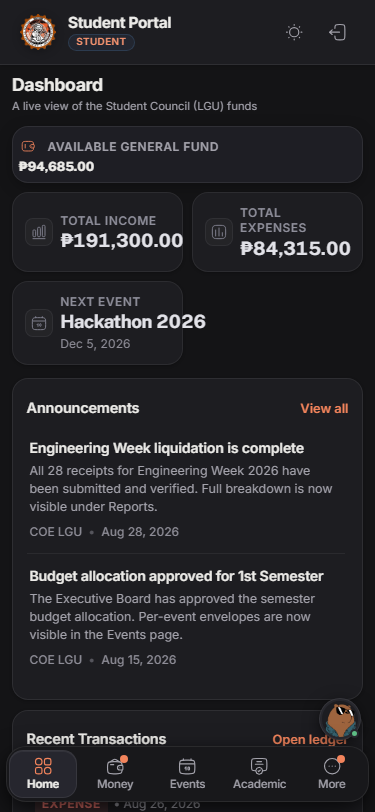
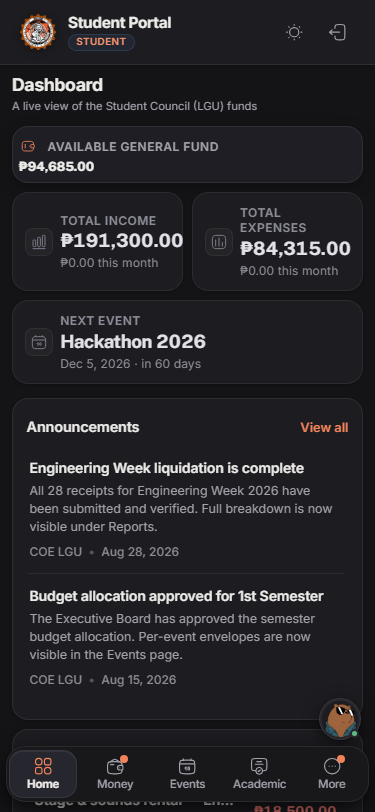
feat(ui): next event countdown on a full row, month-to-date on money cards
Next Event spans both columns on phones and shows how far away it is.
Total Income and Total Expenses carry this month's figure as their
second line, from the monthly report the Reports tab already uses.

Verified: verify-nav-consolidation 65/65, verify-student-experience
37/37, check_txs exit 0.

diff --git a/client/js/dashboard.js b/client/js/dashboard.js
@@ -196,6 +196,7 @@ const Dashboard = (() => {
       document.getElementById('stat-income').textContent    = UI.currency(summary.totalIncome);
       document.getElementById('stat-expense').textContent   = UI.currency(summary.totalExpense);
       document.getElementById('stat-balance').textContent   = UI.currency(summary.remainingBalance);
+      loadMonthToDate();
 
       // Populate popover breakdowns with 1-tap action links
       document.getElementById('pop-income').innerHTML = `
@@ -230,6 +231,25 @@ const Dashboard = (() => {
     }
   }
 
+  // Second line of the income and expense cards: this month's movement,
+  // from the same monthly series the Reports tab charts.
+  async function loadMonthToDate() {
+    const incomeEl = document.getElementById('stat-income-month');
+    const expenseEl = document.getElementById('stat-expense-month');
+    if (!incomeEl || !expenseEl) return;
+    try {
+      const rows = await Api.reports.monthly();
+      const key = new Date().toISOString().slice(0, 7);
+      const row = (rows || []).find(r => r.month === key) || { income: 0, expense: 0 };
+      incomeEl.textContent  = `${UI.currency(row.income)} this month`;
+      expenseEl.textContent = `${UI.currency(row.expense)} this month`;
+    } catch (err) {
+      console.error('Month-to-date load error:', err);
+      incomeEl.textContent = '';
+      expenseEl.textContent = '';
+    }
+  }
+
   // Next upcoming event, in the slot the donations card used to hold.
   // Donations stay available as the breakdown inside Total Income.
   async function loadNextEvent() {
@@ -243,7 +263,13 @@ const Dashboard = (() => {
         .filter(ev => ev.event_date && ev.event_date >= today && ev.status !== 'archived')
         .sort((a, b) => a.event_date.localeCompare(b.event_date))[0];
       nameEl.textContent = next ? next.event_name : 'Nothing scheduled';
-      dateEl.textContent = next ? UI.dateStr(next.event_date) : 'See all events';
+      if (next) {
+        const days = Math.round((new Date(next.event_date + 'T00:00:00') - new Date(today + 'T00:00:00')) / 86400000);
+        const when = days === 0 ? 'today' : days === 1 ? 'tomorrow' : `in ${days} days`;
+        dateEl.textContent = `${UI.dateStr(next.event_date)} · ${when}`;
+      } else {
+        dateEl.textContent = 'See all events';
+      }
     } catch (err) {
       console.error('Next event load error:', err);
       nameEl.textContent = 'Nothing scheduled';

diff --git a/client/index.html b/client/index.html
@@ -355,6 +355,7 @@
                   <p class="stat-label">Total Income</p>
                 </div>
                 <h3 class="stat-value" id="stat-income">₱0.00</h3>
+                <p class="stat-sublabel" id="stat-income-month"></p>
               </div>
               <div class="stat-popover" id="pop-income"></div>
             </div>
@@ -366,6 +367,7 @@
                   <p class="stat-label">Total Expenses</p>
                 </div>
                 <h3 class="stat-value" id="stat-expense">₱0.00</h3>
+                <p class="stat-sublabel" id="stat-expense-month"></p>
               </div>
               <div class="stat-popover" id="pop-expense"></div>
             </div>

diff --git a/client/styles/main.css b/client/styles/main.css
@@ -2386,22 +2386,9 @@ html body .stats-secondary-grid .stat-income:hover .stat-icon {
     gap: 0.55rem;
   }
 
-  /* Total Donations card spans full width across both columns */
-  .stats-secondary-grid .stat-donations {
+  /* Next Event card spans full width across both columns */
+  .stats-secondary-grid .stat-event {
     grid-column: 1 / -1;
-  }
-
-  .stats-secondary-grid .stat-donations .stat-body {
-    display: flex;
-    flex-direction: row;
-    align-items: center;
-    justify-content: space-between;
-    flex-wrap: wrap;
-    gap: 0.25rem 0.75rem;
-  }
-
-  .stats-secondary-grid .stat-donations .stat-value {
-    margin-left: auto;
   }
 
   .stats-secondary-grid .stat-card,

diff --git a/journal/2026-10-06.md b/journal/2026-10-06.md
@@ -24,3 +24,4 @@
 - [16:30] **Student dashboard cleanup (same branch):** removed the five-tile status strip (`#student-status` markup, `loadStudentStatus` in `dashboard.js`, `.student-status` and `.status-tile` rules) after an improve-ui audit of the phone screenshot: every tile duplicated a destination now one tap away in the grouped nav, the tiles misused the coral left rail that marks the active nav section, and the strip pushed the fund balance below the fold. Dashboard subtitle back to the funds-only line. Phone bottom-nav label shortened to "Academic" because "Academics" truncated at 375px (regression from the nav commit). Cache-buster dashboard.js 5.7. Verified: `verify-nav-consolidation.mjs` 58/58 (adds label-truncation and no-strip checks, phone dashboard screenshot), `verify-student-experience.mjs` 37/37 (strip assertions replaced by an absence check), `check_txs.js` exit 0.
 - [16:39] **Tab placement:** moved every `.view-tabs` track from a band above the view header into the header itself as its first row (7 student views, 4 officer views). Headers that hold a track lay out as a two-column grid (`.view-header:has(> .view-tabs)`, `main.css`): track at content width on top, title left, controls right, all under the header's sticky position and bottom rule; on phones a single column with the track spanning the width. First attempt with flex stretched the track across the header (caught by the screenshot), replaced by the grid. Verified: `verify-nav-consolidation.mjs` 59/59 with a new placement check (track inside the sticky header, shared left edge with the title, 19px gap, 245px track, filters beside the title), `verify-student-experience.mjs` 37/37, `check_txs.js` exit 0; screenshots refreshed in `reports/ui-verification/2026-10-06-nav-consolidation/`.
 - [16:54] **Dashboard trades (same branch):** Total Donations card replaced by a Next Event card (`loadNextEvent` in `dashboard.js` picks the earliest upcoming non-archived event from `Api.events.list`, tap opens Events; donations remain in the Income breakdown); Announcements card moved above Recent Transactions and limited to two; Recent Transactions limited to three rows with an "Open ledger" link; explanatory sublabels dropped from the fund, income and expense cards. `dashboard-grid` columns flipped to `1fr 1.6fr` so desktop widths stay as before. `UI_DESIGN.md` dashboard section updated. Verified: `verify-nav-consolidation.mjs` 63/63 (new home checks: event card content with a mocked future event, card order, counts, link, no sublabels, event card opens Events), `verify-student-experience.mjs` 37/37, `check_txs.js` exit 0.
+- [17:04] **Dashboard cards, second pass (same branch):** Next Event now spans the full row on phones (the `.stat-donations` full-row rules in the 640px block retargeted to `.stat-event`) and its date line adds a countdown ("Dec 5, 2026 · in 60 days", with "today" and "tomorrow"). Income and Expenses got a second line with this month's figure from `Api.reports.monthly` (`loadMonthToDate` in `dashboard.js`, matched on the current YYYY-MM; blank on error). Verified: `verify-nav-consolidation.mjs` 65/65 (countdown format, month lines, event card width 351 of 351 on phone), `verify-student-experience.mjs` 37/37, `check_txs.js` exit 0. Mock data has no October rows, so the month lines read zero in the evidence screenshots.
